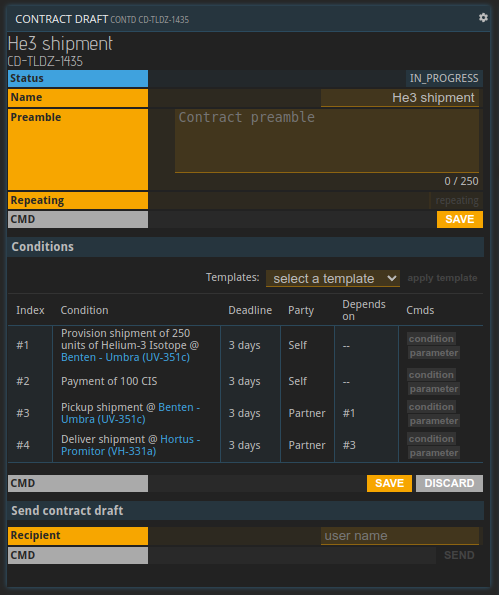
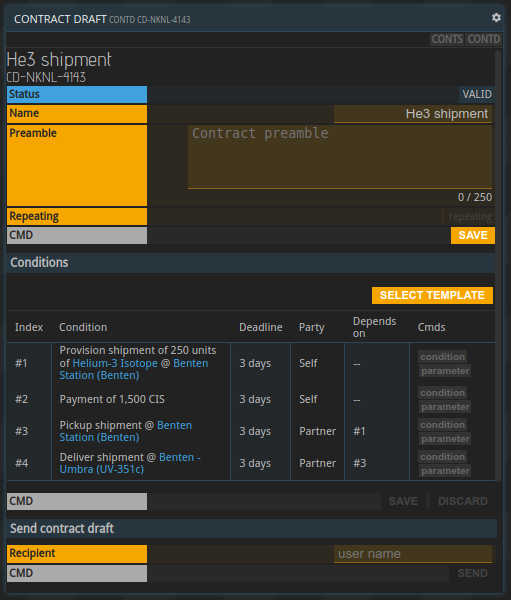
Update custom contract documentation

Changed region(s): [[0.0, 0.0, 0.992, 0.9983], [0.3607, 0.0, 0.992, 0.242]]

diff --git a/content/wiki/custom-contracts/_index.md b/content/wiki/custom-contracts/_index.md
@@ -6,7 +6,7 @@ weight: 3
 
 ## General information
 
-The `CONTD` command allows the creation, editing and sending of contract drafts in order to create custom contracts with other parties. Custom contracts got introduced with the **Convergence** release and currently only support drafts created from three different contract templates.
+The `CONTD` command allows the creation, editing and sending of contract drafts in order to create custom contracts with other parties. Custom contracts have been introduced with the **Convergence** release and additional draft types have been added with the **Liquidity** release.
 
 ## List of contract drafts
 
@@ -22,21 +22,21 @@ A contract draft has two sections, one for the general information and one for t
 
 In the first section the contract can be named. The name is private and will not be visible to the contract party. Its purpose is to be able to remember what specific contract drafts are for. The contract preamble is a free text field that will be transmitted once the draft is sent to another party. The contract creator can express their intentions with the contract in text form, rather than just contract conditions.
 
-The second section is about the contract's conditions. Selecting and applying a template fills the list of contract conditions with the respective template. The templates are based on the local market ad types BUY, SELL and SHIPMENT.
+The second section is about the contract's conditions. Clicking the "select template" button will open an overlay that allows to select a contract draft template. There are three contract templates ("buy commodity", "sell commodity", "ship commodity") that are similar to the ads available on local markets. Besides these there are also three loan contract templates.
 
 Similar to the blueprints, any changes will only be saved once the save button is hit. Pressing 'DISCARD' will reset the draft to its last state. 
 
 Individual conditions can be adjusted with the 'condition' button. Depending on the condition an overlay will allow changing materials, locations currencies, amounts etc. The 'parameter' button allows changing a condition's deadline.
 
-![CONTD](contd2.png)
+![contract draft](contd2.png)
 
 ## Sending a contract draft
 
 A contract draft can be sent to any licensee. Sending the contract will create a copy of the contract draft and convert that copy into a regular contract. It will be visible in the list of contracts `CONTS` in the open state.
 
-The recipient receives an alert about the new contract and can review it. A contract can either be closed or rejected. In both cases the sender will receive a notification about it.
+The recipient receives a notification about the new contract and can review it. A contract can then either be closed or rejected. In both cases the sender will receive a notification about it.
 
-Making changes to the contract draft after it was used to create a contract will not change the created contracts. A contract draft can be used as multiple times.
+Making changes to the contract draft after it was used to create a contract will not change the created contracts. A contract draft can be used multiple times.
 
 Adding someone to the blocklist will prevent the reception of contract drafts from that licensee.
 
